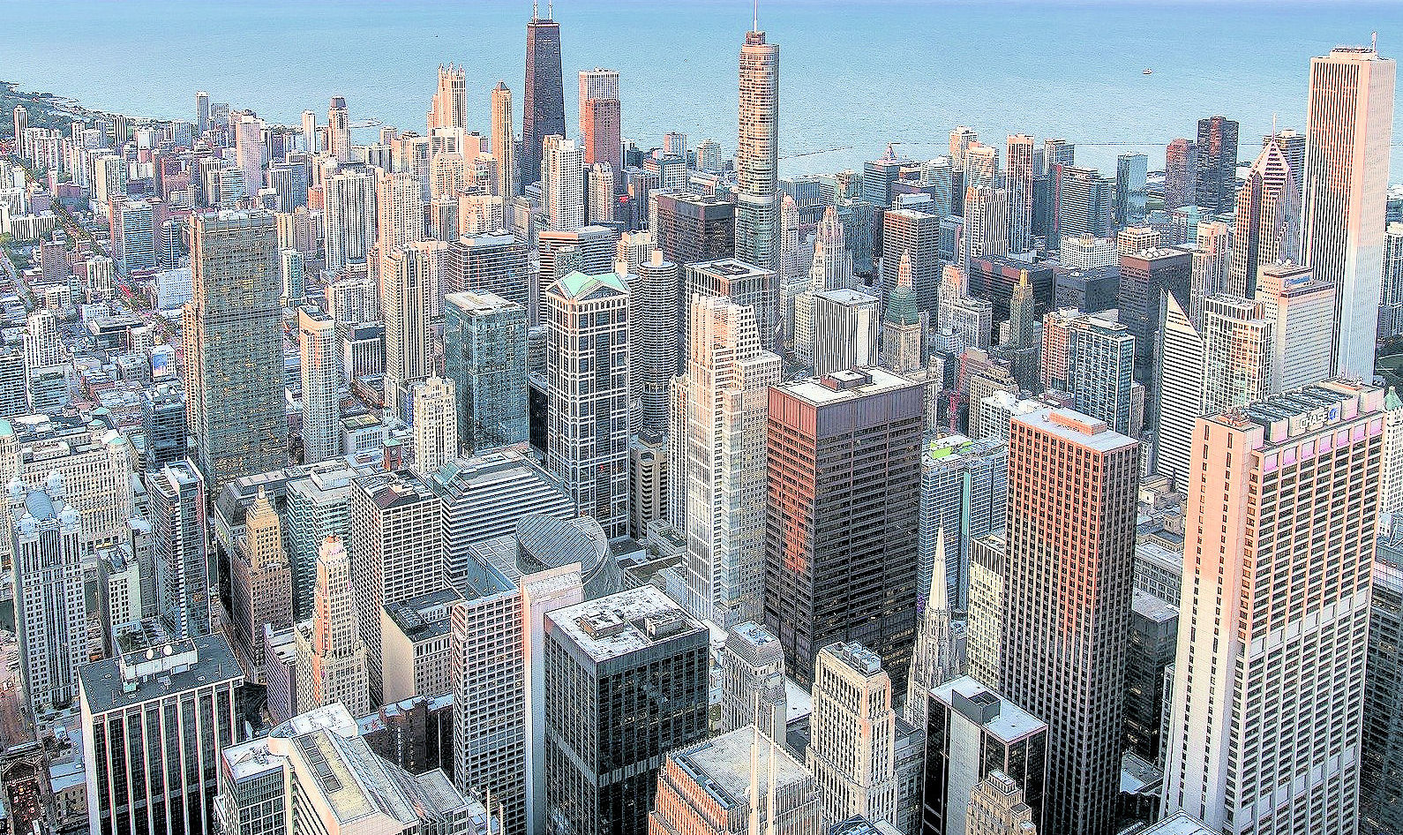
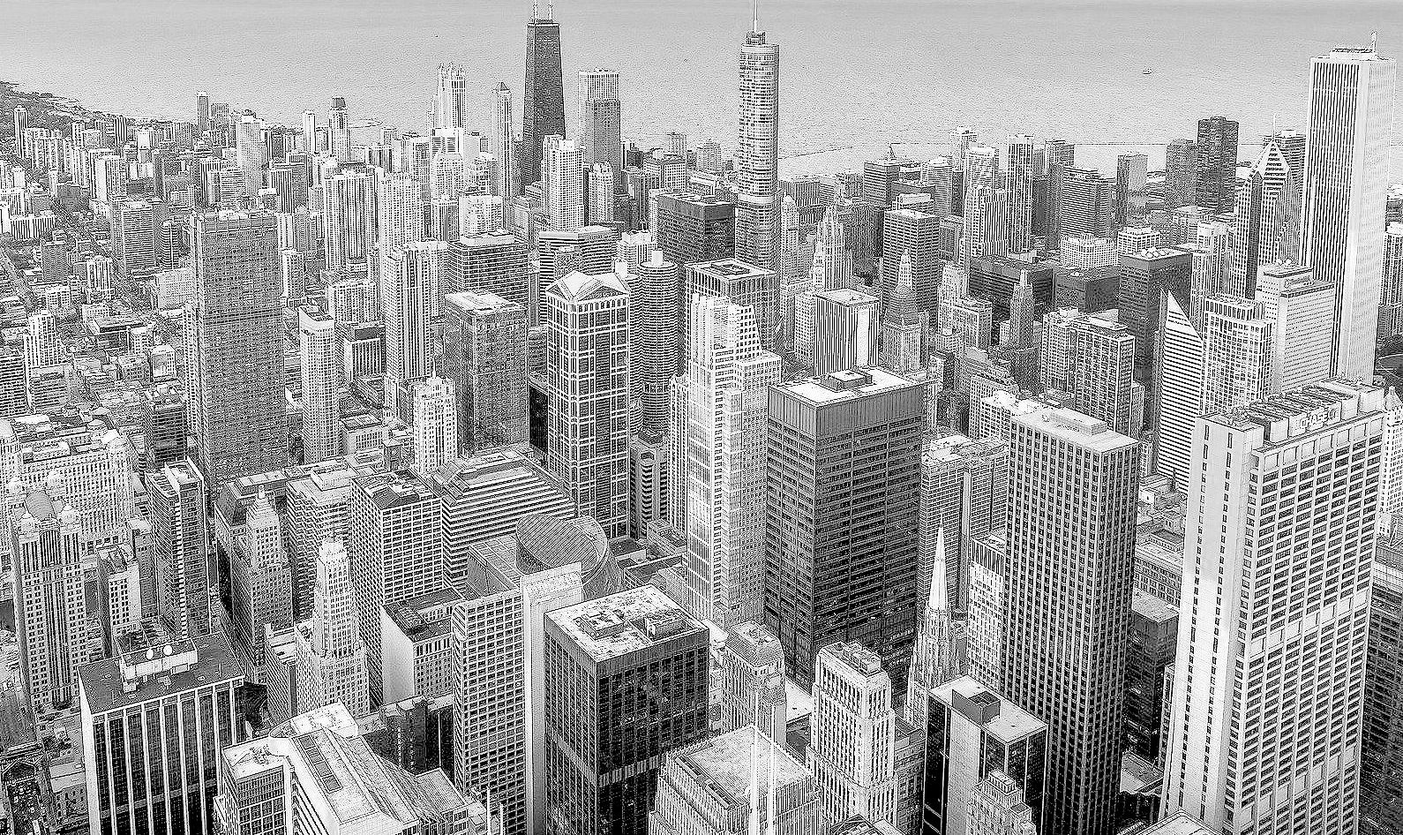
updates

diff --git a/static/css/main.css b/static/css/main.css
@@ -50,7 +50,7 @@ nav {
     left: 0;
     right: 0;
     z-index: -1; /* needed to keep in the background */
-    background: url("../images/background_bw.jpg") top center;
+    background: url("../images/background.jpg") top center;
     -webkit-background-size: cover;
     -moz-background-size: cover;
     -o-background-size: cover;

diff --git a/config/settings.py b/config/settings.py
@@ -31,7 +31,7 @@ SECRET_KEY = os.getenv('SECRET_KEY')
 # SECURITY WARNING: don't run with debug turned on in production!
 DEBUG = True
 
-ALLOWED_HOSTS = ['127.0.0.1']
+ALLOWED_HOSTS = ['localhost','127.0.0.1','juntos.mdbytes.us','159.203.98.181']
 
 
 # Application definition
@@ -130,6 +130,8 @@ USE_TZ = True
 # https://docs.djangoproject.com/en/3.1/howto/static-files/
 
 STATIC_URL = '/static/'
+
+#STATIC_ROOT = os.path.join(BASE_DIR, 'static/')
 STATICFILES_DIRS = [STATIC_DIR]
 
 MEDIA_ROOT = MEDIA_DIR
